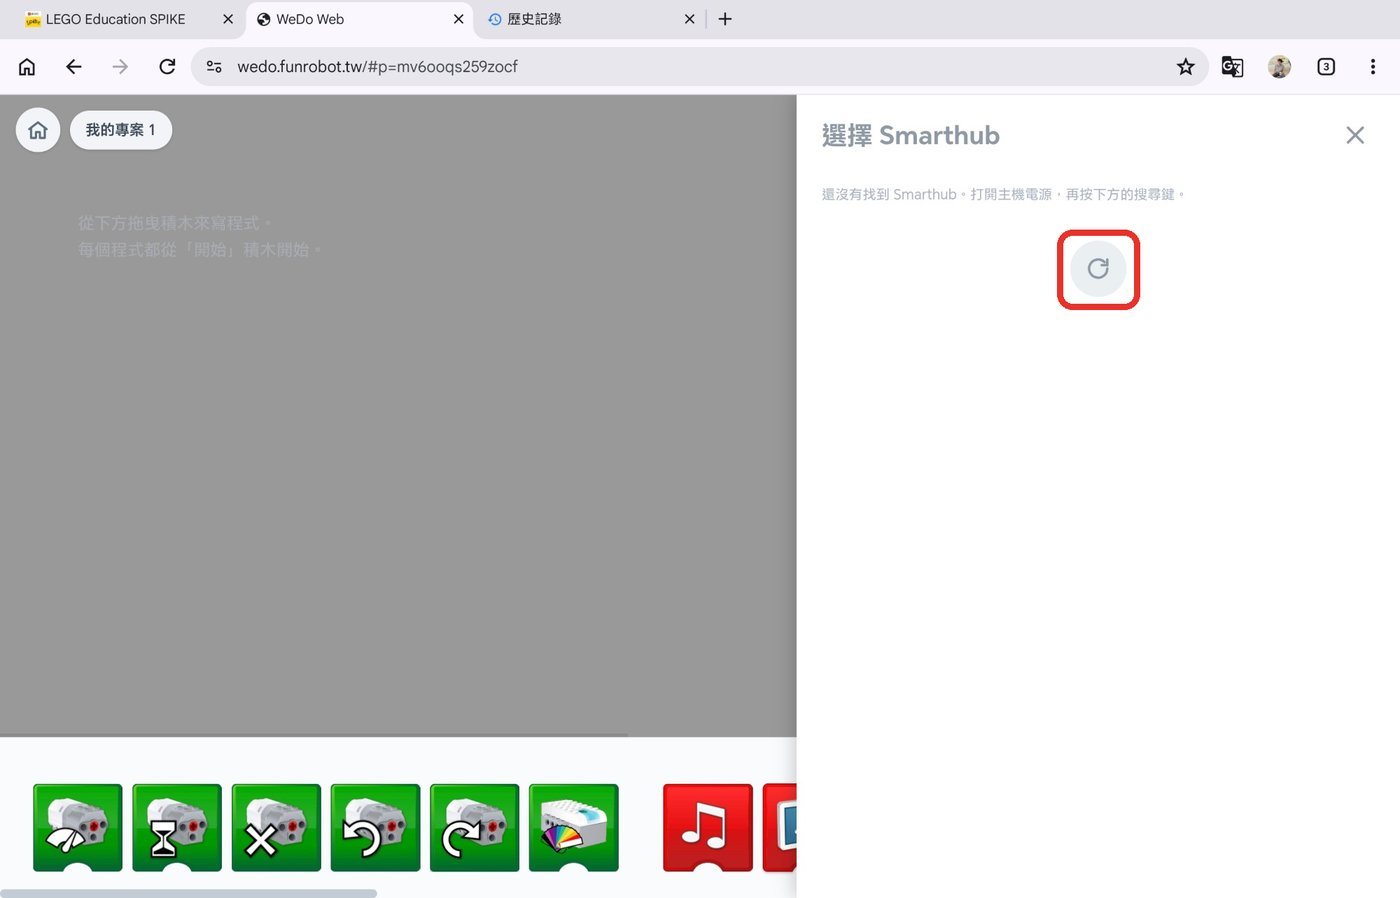
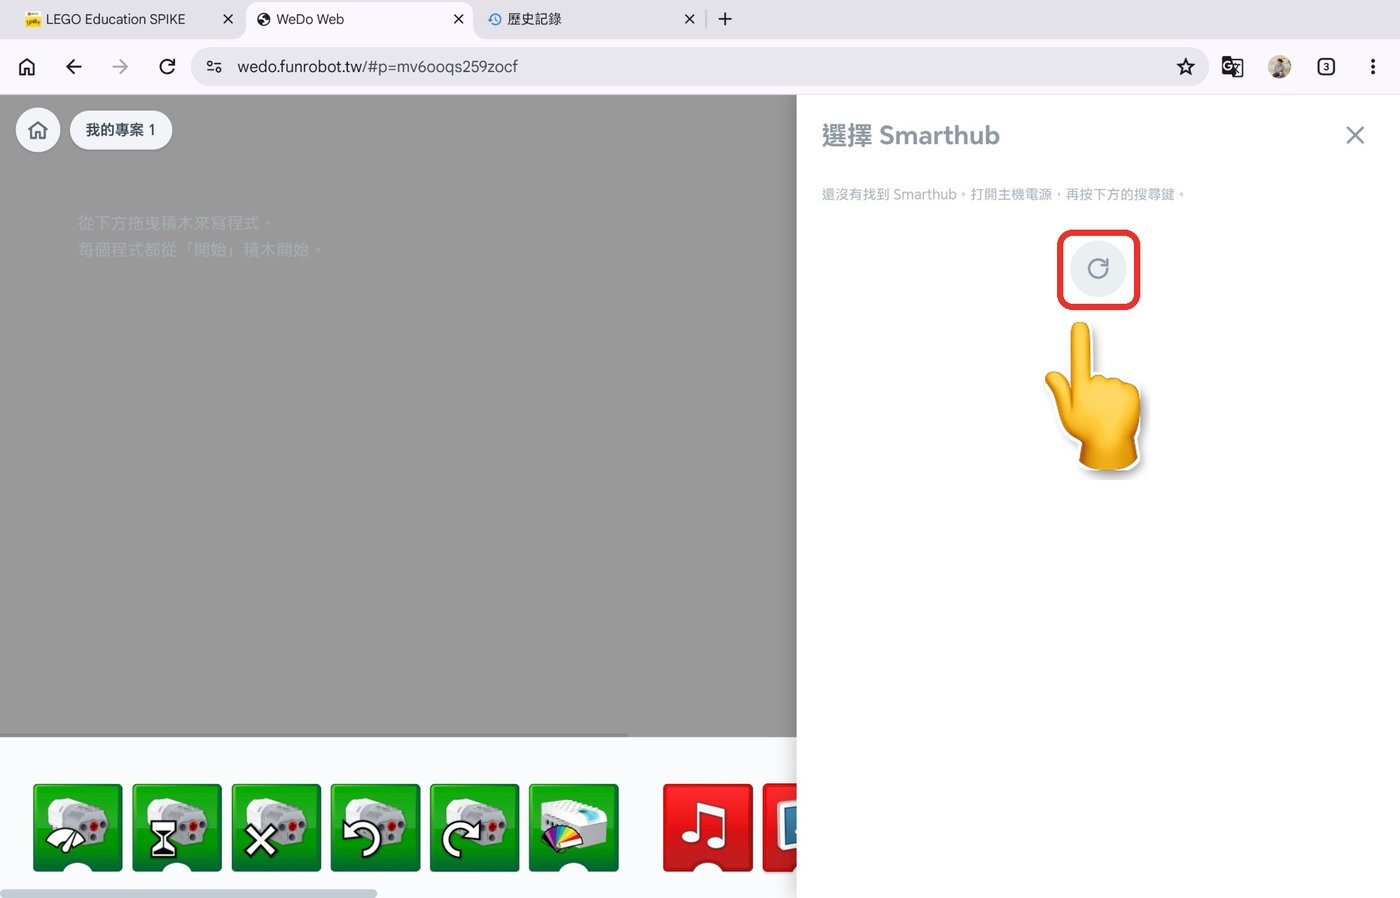
Guide: pointing hands on screenshots

Changed region(s): [[0.7371, 0.343, 0.8293, 0.5301]]

diff --git a/guide.html b/guide.html
@@ -101,7 +101,7 @@
     <div class="card step"><div class="num">4</div><div>
       <h3>建立專案</h3>
       <p>看到「我的專案」首頁後，點綠色的 <span class="key">＋ 新專案</span> 進入寫程式的畫面。</p>
-      <figure class="shot"><img src="images/guide/ipad-01-home.jpg" alt="WeDo Web 首頁「我的專案」，紅框是「＋ 新專案」" loading="lazy"><figcaption>「我的專案」首頁：點紅框的「＋ 新專案」。</figcaption></figure>
+      <figure class="shot"><img src="images/guide/ipad-01-home.jpg" alt="WeDo Web 首頁「我的專案」，紅框是「＋ 新專案」" loading="lazy"><figcaption>「我的專案」首頁：點手指指的「＋ 新專案」。</figcaption></figure>
       <p>程式會<b>自動儲存</b>，不用按儲存。左上角的 🏠 可以回到首頁。</p>
     </div></div>
 
@@ -109,11 +109,11 @@
       <h3>連接 WeDo 2.0 主機</h3>
       <p><b>① 打開主機電源</b>：按主機上的綠色按鈕，主機燈號會白光閃爍（閃兩下、停約 0.5 秒，重複）。</p>
       <p><b>② 點畫面右上角藍色的主機圖示</b>（顯示「未連線」）。</p>
-      <figure class="shot"><img src="images/guide/ipad-02-editor.jpg" alt="寫程式的畫面，紅框是右上角藍色的主機圖示" loading="lazy"><figcaption>寫程式的畫面：點紅框的主機圖示。</figcaption></figure>
+      <figure class="shot"><img src="images/guide/ipad-02-editor.jpg" alt="寫程式的畫面，紅框是右上角藍色的主機圖示" loading="lazy"><figcaption>寫程式的畫面：點手指指的主機圖示。</figcaption></figure>
       <p><b>③ 右邊滑出「選擇 Smarthub」，點中間的 <span class="search"><svg viewBox="0 0 24 24"><path d="M20 12a8 8 0 1 1-2.3-5.6"/><path d="M20 4v5h-5"/></svg></span> 箭頭按鈕</b>。</p>
-      <figure class="shot"><img src="images/guide/ipad-03-search.jpg" alt="選擇 Smarthub 面板，紅框是箭頭按鈕" loading="lazy"><figcaption>「選擇 Smarthub」面板：點紅框的箭頭按鈕。</figcaption></figure>
+      <figure class="shot"><img src="images/guide/ipad-03-search.jpg" alt="選擇 Smarthub 面板，紅框是箭頭按鈕" loading="lazy"><figcaption>「選擇 Smarthub」面板：點手指指的箭頭按鈕。</figcaption></figure>
       <p><b>④ Bluefy 跳出「Select device」視窗，點選你的主機</b>。下方的開關維持原本的設定即可。</p>
-      <figure class="shot"><img src="images/guide/ipad-04-select-device.jpg" alt="Bluefy 的 Select device 視窗，紅框是主機名稱" loading="lazy"><figcaption>Bluefy 的「Select device」視窗：點紅框的主機。</figcaption></figure>
+      <figure class="shot"><img src="images/guide/ipad-04-select-device.jpg" alt="Bluefy 的 Select device 視窗，紅框是主機名稱" loading="lazy"><figcaption>Bluefy 的「Select device」視窗：點手指指的主機。</figcaption></figure>
       <p>這個視窗顯示的名稱可能跟主機實際的名稱不同。例如截圖中視窗顯示「LPF2 Smart Hub」，連上後 WeDo Web 顯示的是這台主機的名稱「FUN02」。</p>
       <p><b>⑤ 主機出現在「選擇 Smarthub」清單裡並變成綠色，就是連上了</b>。綠色列上會顯示主機名稱和電量；✏ 可以幫主機改名，紅色 ✕ 是中斷連線。</p>
       <figure class="shot"><img src="images/guide/ipad-05-connected.jpg" alt="連線成功，主機名稱 FUN02 顯示在綠色列" loading="lazy"><figcaption>連線成功：主機變成綠色，顯示名稱與電量。</figcaption></figure>
@@ -178,7 +178,7 @@
     <div class="card step"><div class="num">4</div><div>
       <h3>建立專案</h3>
       <p>看到「我的專案」首頁後，點綠色的 <span class="key">＋ 新專案</span> 進入寫程式的畫面。</p>
-      <figure class="shot"><img src="images/guide/android-01-home.jpg" alt="WeDo Web 首頁「我的專案」，紅框是「＋ 新專案」" loading="lazy"><figcaption>「我的專案」首頁：點紅框的「＋ 新專案」。</figcaption></figure>
+      <figure class="shot"><img src="images/guide/android-01-home.jpg" alt="WeDo Web 首頁「我的專案」，紅框是「＋ 新專案」" loading="lazy"><figcaption>「我的專案」首頁：點手指指的「＋ 新專案」。</figcaption></figure>
       <p>程式會<b>自動儲存</b>，不用按儲存。左上角的 🏠 可以回到首頁。</p>
     </div></div>
 
@@ -186,13 +186,13 @@
       <h3>連接 WeDo 2.0 主機</h3>
       <p><b>① 打開主機電源</b>：按主機上的綠色按鈕，主機燈號會白光閃爍（閃兩下、停約 0.5 秒，重複）。</p>
       <p><b>② 點畫面右上角藍色的主機圖示</b>（顯示「未連線」）。</p>
-      <figure class="shot"><img src="images/guide/android-02-editor.jpg" alt="寫程式的畫面，紅框是右上角藍色的主機圖示" loading="lazy"><figcaption>寫程式的畫面：點紅框的主機圖示。</figcaption></figure>
+      <figure class="shot"><img src="images/guide/android-02-editor.jpg" alt="寫程式的畫面，紅框是右上角藍色的主機圖示" loading="lazy"><figcaption>寫程式的畫面：點手指指的主機圖示。</figcaption></figure>
       <p><b>③ 右邊滑出「選擇 Smarthub」，點中間的 <span class="search"><svg viewBox="0 0 24 24"><path d="M20 12a8 8 0 1 1-2.3-5.6"/><path d="M20 4v5h-5"/></svg></span> 箭頭按鈕</b>。第一次會詢問是否允許 Chrome 使用「附近的裝置」，請按 <span class="key">允許</span>。</p>
-      <figure class="shot"><img src="images/guide/android-03-search.jpg" alt="選擇 Smarthub 面板，紅框是箭頭按鈕" loading="lazy"><figcaption>「選擇 Smarthub」面板：點紅框的箭頭按鈕。</figcaption></figure>
+      <figure class="shot"><img src="images/guide/android-03-search.jpg" alt="選擇 Smarthub 面板，紅框是箭頭按鈕" loading="lazy"><figcaption>「選擇 Smarthub」面板：點手指指的箭頭按鈕。</figcaption></figure>
       <p><b>④ Chrome 跳出「https://wedo.funrobot.tw 要求配對」視窗，點選你的主機</b>。視窗下方顯示「正在掃描裝置…」時，主機可能要等幾秒才會出現。</p>
-      <figure class="shot"><img src="images/guide/android-04-select-device.jpg" alt="Chrome 的配對視窗，紅框是主機名稱" loading="lazy"><figcaption>Chrome 的配對視窗：點紅框的主機。</figcaption></figure>
+      <figure class="shot"><img src="images/guide/android-04-select-device.jpg" alt="Chrome 的配對視窗，紅框是主機名稱" loading="lazy"><figcaption>Chrome 的配對視窗：點手指指的主機。</figcaption></figure>
       <p><b>⑤ 主機變成反白後，按 <span class="key">配對</span></b>。</p>
-      <figure class="shot"><img src="images/guide/android-05-pair.jpg" alt="選好主機後，紅框是反白的主機與「配對」按鈕" loading="lazy"><figcaption>選好主機後按「配對」。</figcaption></figure>
+      <figure class="shot"><img src="images/guide/android-05-pair.jpg" alt="選好主機後，紅框是反白的主機與「配對」按鈕" loading="lazy"><figcaption>選好主機後，按手指指的「配對」。</figcaption></figure>
       <p><b>⑥ 右上角的主機圖示顯示主機名稱，就是連上了</b>。再點一次主機圖示，可以看到主機在「選擇 Smarthub」清單裡變成綠色。</p>
       <figure class="shot"><img src="images/guide/android-06-connected.jpg" alt="連線成功，右上角顯示主機名稱 Fun02" loading="lazy"><figcaption>連線成功：右上角顯示主機名稱。</figcaption></figure>
       <p>畫面右下角會顯示 Port 1、Port 2 接了什麼（馬達、傾斜感測器、距離感測器）和目前的數值。</p>
